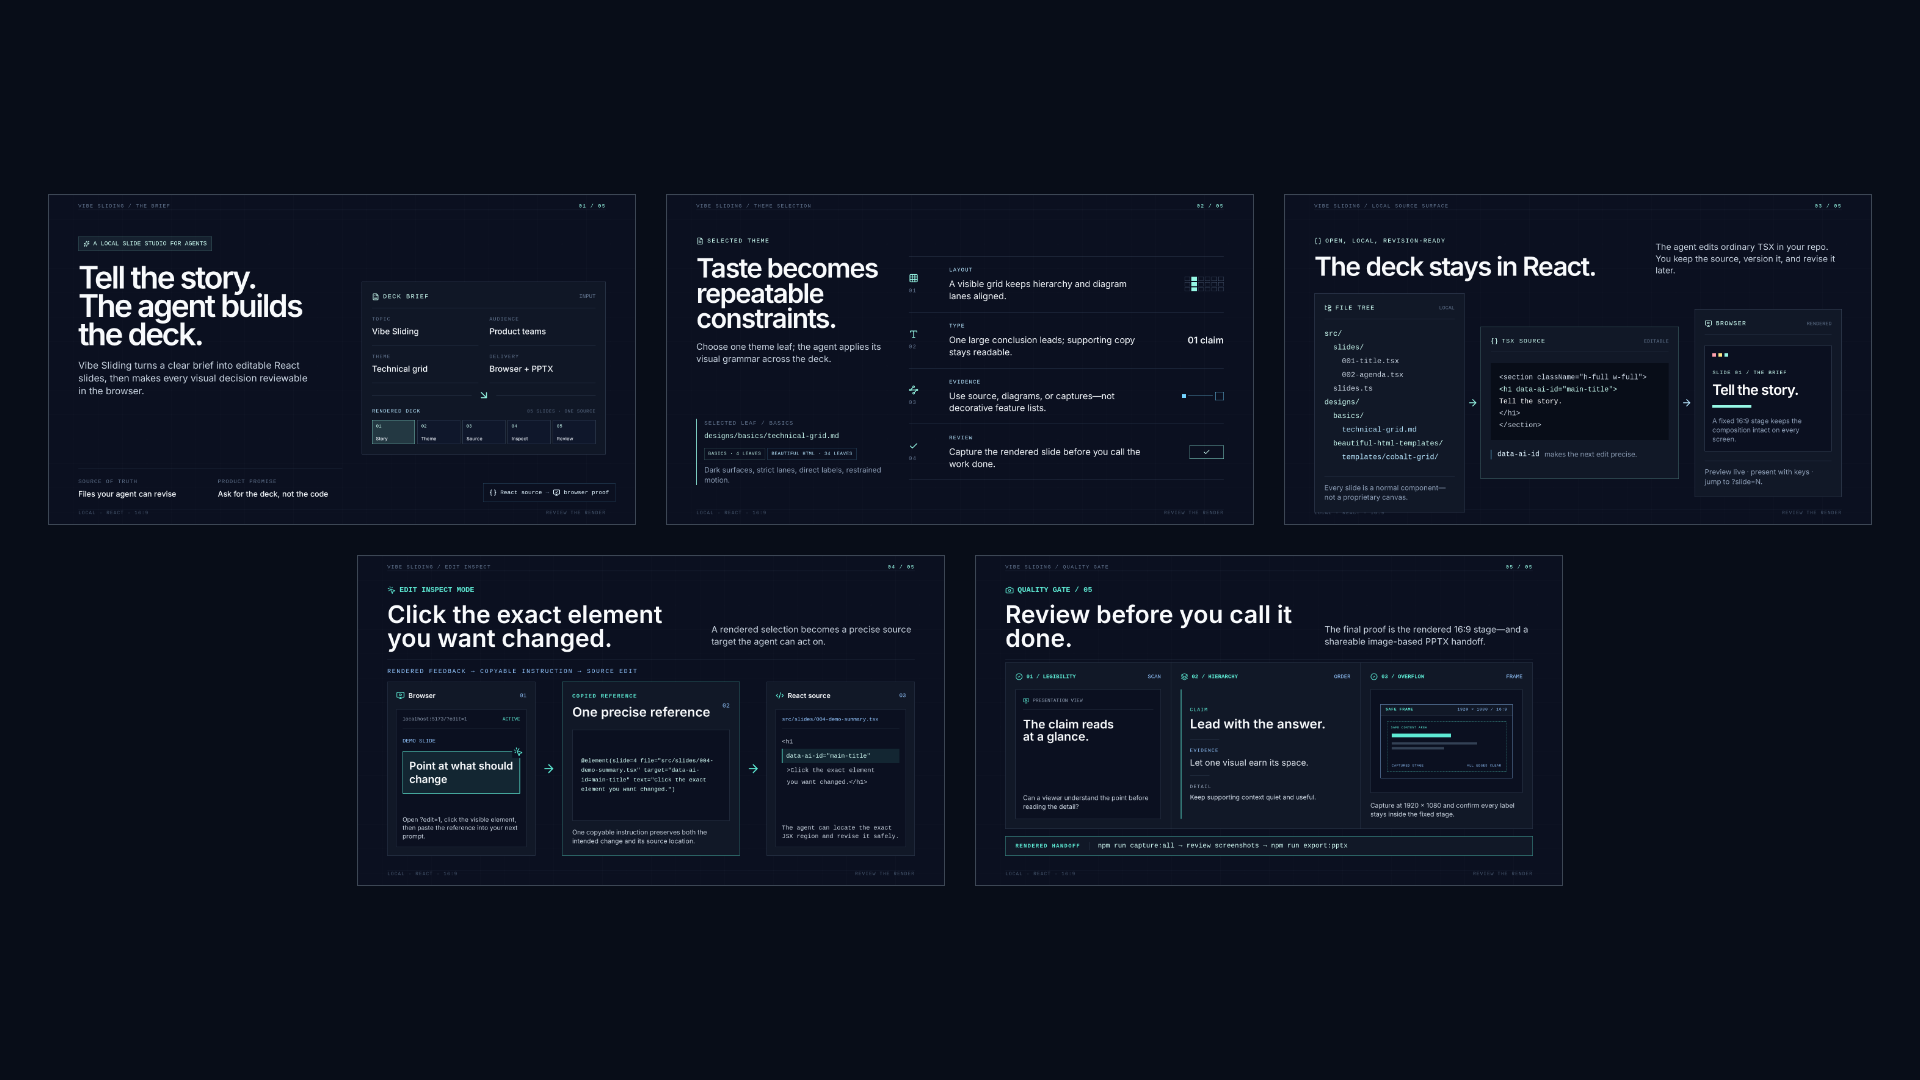
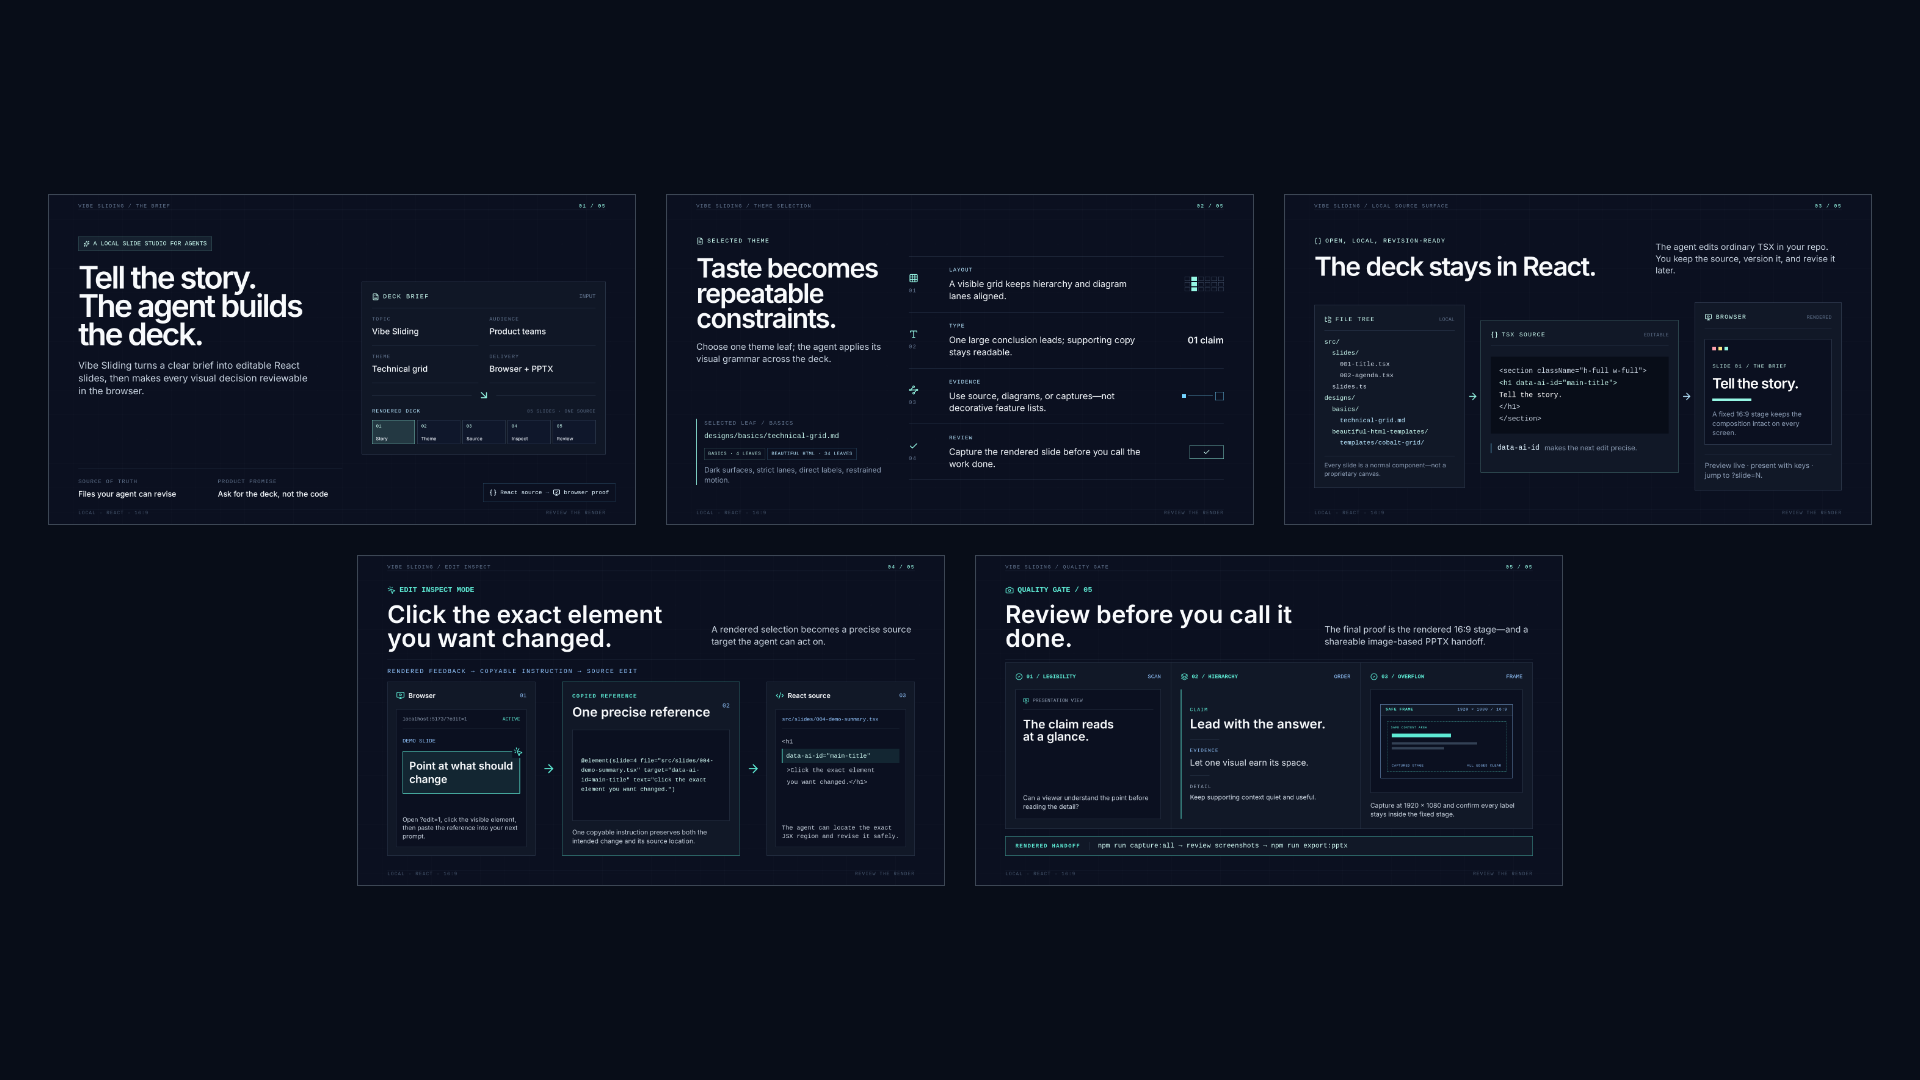
fix: keep source tree above slide footer

diff --git a/src/slides/003-content.tsx b/src/slides/003-content.tsx
@@ -66,14 +66,14 @@ export default function Slide003Content() {
               </div>
               <span className="font-mono text-[17px] text-slate-500">LOCAL</span>
             </div>
-            <div className="mt-8 space-y-3 font-mono text-[24px] leading-snug">
+            <div className="mt-6 space-y-2 font-mono text-[21px] leading-snug">
               {fileTree.map(([name, kind]) => (
                 <p className={`whitespace-pre ${kind === 'theme' ? 'text-sky-200' : kind === 'folder' ? 'text-teal-100' : 'text-slate-300'}`} key={name}>
                   {name}
                 </p>
               ))}
             </div>
-            <p className="mt-12 border-t border-slate-700 pt-5 text-[23px] leading-snug text-slate-400">
+            <p className="mt-7 border-t border-slate-700 pt-4 text-[20px] leading-snug text-slate-400">
               Every slide is a normal component—not a proprietary canvas.
             </p>
           </motion.article>
